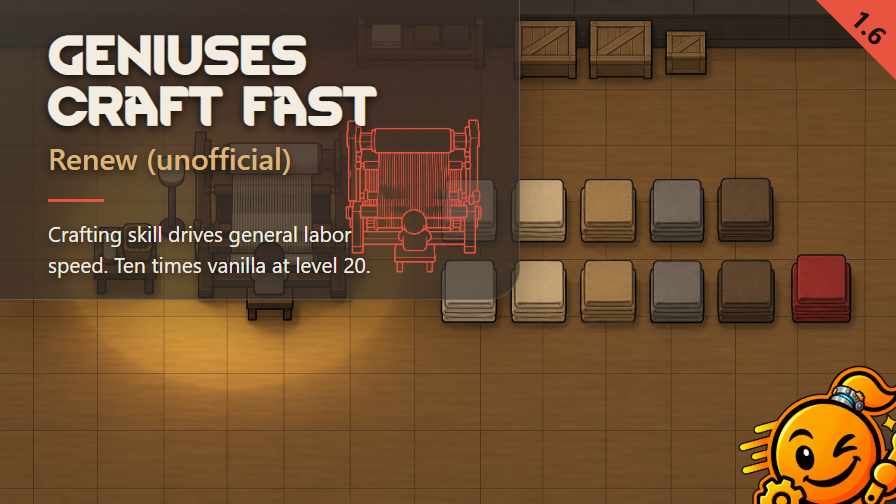
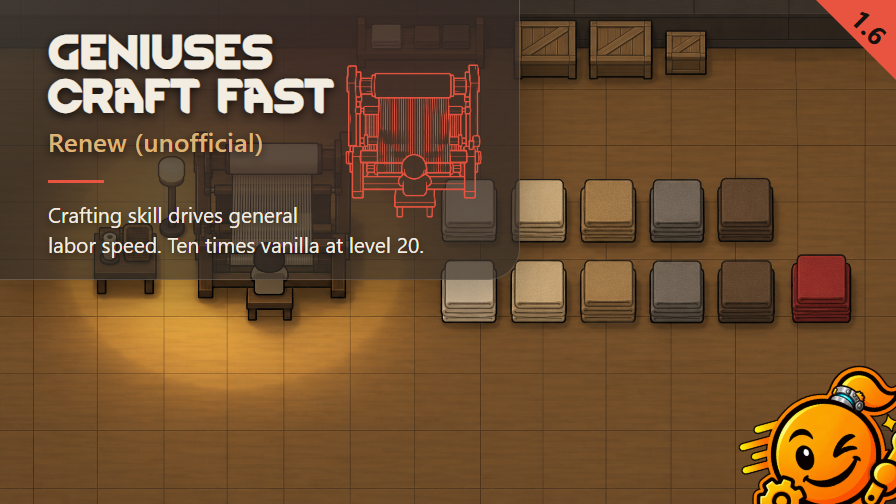
Preview: re-render after echo.width/height removal; config in current format; STATUS: resume 2026-11-10, protocols re-read

Changed region(s): [[0.0, 0.0595, 0.5938, 0.6548]]

diff --git a/STATUS.md b/STATUS.md
@@ -21,6 +21,7 @@ workshop:     3806761999 (private item created by the 0.1.0 upload of 2026-09-23
 remaining:
   - 2026-10-30 replay-audit 1 to 8 done, stage unchanged: 8.m reopened by 4869f3a (Preview.png) and the About.xml description wording; `git diff 968b960 HEAD -- Mod` read: images and description text only, no patch change (Mod/Patches last touched before aa5f14b, the tested sha); code_review_sha set to c4b202b (revue du diff : images et texte seuls). Weak proofs (STATUS.md only): 4.g dependencies record, Test-Patch.ps1 PASS of 2026-10-13 (LOCAL_SCRIPTS row not validated, not rerun)
   - 2026-10-30 ticket 20261025-185730-448-35be (scene 2 alone, 706e311) read: exit 1, failed at step 4, the NPT hide step `the things "VanometricPower" within 10 cells of (219, 237) are hidden` ("No VanometricPower within 10 cells": defName or centre wrong; the cylinders are visible in `Tests/Pickle/Inbox/gallery-s2/screenshots/`). NPT answered: match is exact on defName (spawned things only), radius is a square, new steps `the things within N cells of (x, z) are listed` (attaches `things-near`) and `... are hidden when present` (compiled, not played). Scene 2 now lists the things within 12 cells of (222, 243) then hides tolerantly; ticket `20261030-161203-412-cbc0` filed (evidence `Tests/Pickle/Inbox/gallery-s2-b`): read the `things-near` attachment, fix the defNames and centre, and read bill step, forced DoBill and pose across the pause (steps after 4 never ran in 35be). Then write scenes 1, 4, 5 and the stat-card scenario (GeneralLaborSpeed) from the shotlist, one small ticket each; show Miel look to the owner on the first capture (not OK in LOOKS-VALIDATION.md); delete 1-candidate-three-crafters.png (refused); tested_1_7 not recorded; Evidence/ sorted, Parked/gallery-draft5 waits for a green "three crafters"
+  - 2026-11-10 resume: Preview re-rendered (Preview.png last committed 2026-10-25, before the 2026-11-03 echo.width/height removal; config migrated to the current format: `background`, `panel.description`, `suffix`), opened and checked (echo clear of title, no clipping); `Art/Gallery/0-preview.png` follows. Ticket `20261030-161203-412-cbc0` (scene 2, listing step) result not yet read: ask the TM for its state. Protocols re-read (diffs of GALLERY.md, STYLE_RIMWORLD.md, AUDIT.md, PICKLE.md): new at shootGallery = subtitled copies in `Art/Gallery/` and clean originals in `Art/Gallery-clean/`, one final review by the owner, `REDO` if any of the four image notes is under 4/5 or criterion j is weak at 268 px, Check-ShotlistVsScenario.ps1 before any ticket
   - done 2026-10-11: _tools/build-preview.cjs, build-about.sh, package.json removed (shared Render-Preview.cjs + Art/Preview.config.json replace them); Tests/Test-Patch.ps1 stays (moved from _tools/ on 2026-10-12: AGENTS.md closing pass 3, no `_` folder at the root) (one consumer, emulates two XML operations offline), row in scripts/LOCAL_SCRIPTS.md awaits validation; art-README.md updated 2026-10-13 (shared renderer), Art migration committed
   - justified not_applicable: UI in French. The mod adds no text, so a French pass shows only vanilla strings; no pass planned (AUDIT.md 8.i, 2026-10-11)
   - 2026-10-13 audit 1 to 8 rechecked: Test-Patch.ps1 PASS both branches, git diff --check clean, About.xml deps unchanged, CHANGELOG [Unreleased], no @wip, Art minimal set, root clean, ModIcon.png 128x128 24.8 KB. 8.m reopened by 968b960 (Mod/ images only, no code): code_review_sha set to 968b960 after reading the diff
@@ -28,8 +29,8 @@ remaining:
   - 2026-10-15, gallery ticket e6dc result read (exit 1, 4/6 green): "three crafters" judged and promoted to `Art/Gallery/1-candidate-three-crafters.png` (9.d); "Nelim at her bench" and "the apprentice" judged and rejected (camera framed one cell off the subject at zoom 3, pushing it to the frame edge or out of it entirely; fixed in 07-gallery.feature); the two stat-card scenarios failed on an undefined step (PickleTools/InspectTabs was never staged for this pass: @requires and wsl-deps.sanctuary.map fixed). About.xml description's hardcoded "1.6" removed (owner rule 2026-10-13); STATUS.md trimmed 41 KB -> dated sections in docs/runs/history.md; protocols re-read, protocols_read_sha current. Replay filed on 7fc56bd: ticket `20261015-174457-834-a434`, the 4 fixed scenarios, wsl-deps.sanctuary.map
   - feature: PUBLICATION.md (Steam description block, 1.0.0 change note, gallery order, thank-you drafts) is required before tested -> prepublished; the thank-you register has no row yet for the original, DeCore and Stats Matter
 session:      local_80aee830-8dba-4482-97b8-4e3d7076c422
-updated:      2026-10-30, ticket 20261025-185730-448-35be read (failed at the hide step, NPT asked), protocols re-read: shootGallery[1.0.0]
-protocols_read_sha: b2b365f1d31b0c1ae53a5d5d5a695db080c327ce
+updated:      2026-11-10, resume: protocols re-read, Preview re-rendered: shootGallery[1.0.0]
+protocols_read_sha: 1b089279ae73b32a5ea8d56b3a598885d03cc393
 ---
 
 # Geniuses Craft Fast Renew — status
